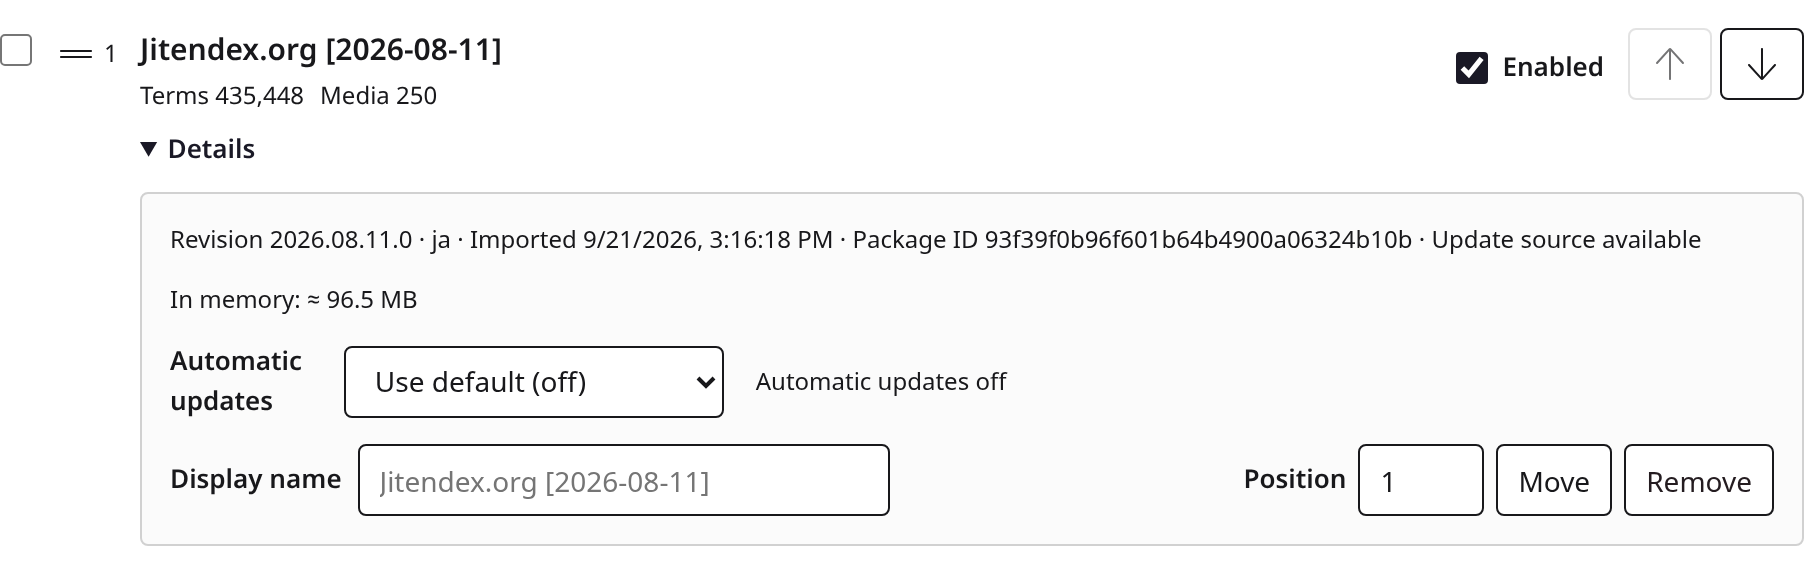
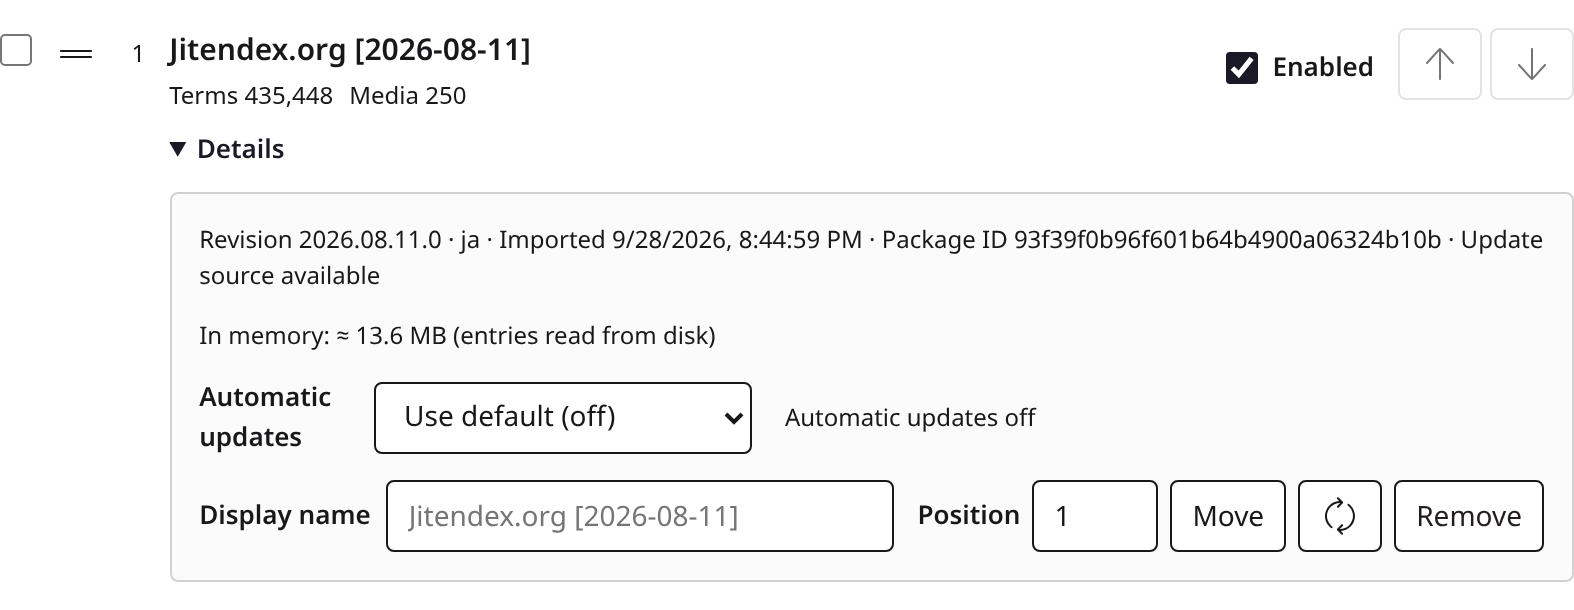
Document the memory model and measure Low memory mode on a library
docs/memory.md describes one copy per package, media read from disk, paged
entries in Low memory mode with their measured cost, and the out-of-memory
retry. benchmark/low-memory-mode.mjs imports several archives at once and
times a word list over several passes, recording the page cache and the heap
after them. The memory screenshots show Low memory mode on.

Fixes #343

diff --git a/docs/memory.md b/docs/memory.md
@@ -1,42 +1,50 @@
 # Memory
 
-Hachidori keeps every installed dictionary in memory while the engine runs. A
-library of large, media-heavy dictionaries can therefore take a few gigabytes of
-RAM where a dictionary extension that reads from IndexedDB on demand takes a few
-hundred megabytes. This page explains where the bytes go, what Settings shows
-about them, what **Low memory mode** does and costs, and what happens when the
-dictionaries do not fit.
+Hachidori keeps the installed dictionaries' text in memory while the engine
+runs, and reads their images from disk when they are shown. A library of large
+dictionaries can therefore take a gigabyte or more of RAM, where a dictionary
+extension that reads from IndexedDB on demand takes a few hundred megabytes.
+**Low memory mode** keeps only each dictionary's index in memory and reads the
+entries from disk as they are looked up. This page explains where the bytes
+go, what Settings shows about them, what Low memory mode does and costs, and
+what happens when the dictionaries do not fit.
 
 ## Why the engine is large
 
 The dictionary engine ([hoshidicts](https://github.com/bee-san/hoshidicts),
 compiled to WebAssembly) opens each installed dictionary's generated files with
-`mmap`: `hash.table`, `bloom.filter`, `blobs.bin`, and, when present,
-`media.bin`, `media.idx` and `scan.idx`. Natively that costs nothing until a page
-is touched. WebAssembly has no demand paging, so Emscripten emulates `mmap` by
-allocating the whole file inside the module's linear memory and copying the
-bytes in. Four things follow:
+`mmap`: its index (`hash.table`, `bloom.filter` and, when present, `media.idx`,
+`scan.idx` and the trained `dict.zstd`) and its entries (`blobs.bin`). Natively
+that costs nothing until a page is touched. WebAssembly has no demand paging, so
+Emscripten emulates `mmap` by allocating the whole file inside the module's
+linear memory and copying the bytes in. Five things follow:
 
-- **Every byte of every installed dictionary is resident**, media included,
-  whether or not you ever look a word up in it. A dictionary's share is the size
-  of its generated files, and the engine maps those files once for each kind it
-  loads the package as (term, frequency, pitch, kanji), so a package that
-  carries several banks holds several copies.
+- **Every entry of every installed dictionary is resident**, whether or not you
+  ever look a word up in it. A dictionary's share is the size of its index and
+  entry files, once however many kinds it loads as (term, frequency, pitch,
+  kanji): the kinds share one copy.
+- **Images and other media are not.** `media.bin` is never copied in; the
+  engine reads a file from OPFS (or IDBFS) when a popup or an Anki export asks
+  for it, and the popup caches what it shows.
 - **Linear memory never shrinks.** Importing a dictionary unzips it, builds its
   indexes and, on the threaded engine, runs an eight-thread worker group. On
   direct OPFS that work happens in a separate import worker that is terminated
   afterwards, so its peak is returned to the browser and the engine's heap grows
-  only by the new dictionary's mapped files; on IDBFS (Electron) the
+  only by the new dictionary's resident files; on IDBFS (Electron) the
   import runs inside the engine and the memory that peak needs is kept for the
   life of the engine worker. Disabling or removing a dictionary frees its
-  mapping inside the heap, but the heap itself stays at its high-water mark.
+  files inside the heap, but the heap itself stays at its high-water mark.
 - **IDBFS hosts hold a second copy.** Electron (GameSentenceMiner) and
   Chrome without OPFS sync access handles keep the dictionary files in
-  IndexedDB and mirror them into the WebAssembly filesystem, so the same bytes
-  exist twice in JavaScript memory.
+  IndexedDB and mirror them into the WebAssembly filesystem, so every file,
+  media included, also exists in JavaScript memory.
 - **The heap is capped at 4 GiB** (`-sMAXIMUM_MEMORY=4GB` in
-  `wasm/CMakeLists.txt`). A library whose mapped files exceed that cannot load
-  completely.
+  `wasm/CMakeLists.txt`). A library whose resident files exceed that cannot
+  load completely; see [When dictionaries do not fit](#when-dictionaries-do-not-fit).
+
+With the five recommended dictionaries (75 MB of archives) the engine heap is
+about 320 MB after the import, and about 100 MB in Low memory mode (Chrome 152,
+direct OPFS; `benchmark/low-memory-mode.mjs`).
 
 ## Reading the numbers
 
@@ -47,59 +55,91 @@ packages.
 ![Settings → Advanced → Memory with the engine total and the Low memory mode switch](assets/memory-settings.png)
 
 Each row in Library shows *In memory: ≈ Y MB* under **Details**: that
-package's mapped bytes as described above.
+package's resident files as described above. A package whose entries are read
+from disk (every package in Low memory mode, or one that did not fit) counts
+only its index and says *(entries read from disk)*.
 
 ![A Library row's Details with its In memory line](assets/memory-library-details.png)
- Both come from the engine's
-`hd_memory` read (see [architecture.md](architecture.md), "Runtime messages"),
-asked for when you open Advanced (and again there when the engine publishes a
-new generation after an import, reload or recycle) and when you open a row's
-Details; nothing polls. While the engine is busy or unreachable the readout shows an em
-dash rather than an error.
+
+Both come from the engine's `hd_memory` read (see
+[architecture.md](architecture.md), "Runtime messages"), asked for when you open
+Advanced (and again there when the engine publishes a new generation after an
+import, reload or recycle) and when you open a row's Details; nothing polls.
+While the engine is busy or unreachable the readout shows an em dash rather than
+an error.
 
 The total is usually larger than the sum of the rows: the difference is the
-import high-water mark and the engine's own allocations. Media-heavy
-dictionaries (images, audio) are the expensive ones; a text-only dictionary
-with tens of thousands of entries is a few tens of megabytes.
+import high-water mark, the engine's own allocations and, in Low memory mode,
+the cache of recently read entry pages (`hd_memory.pageCacheBytes`, at most
+32 MiB once a lookup returns). A text-only dictionary with tens of thousands of
+entries is a few tens of megabytes; the largest name dictionaries are several
+hundred.
 
 ## Low memory mode
 
-Settings → Advanced → Memory → **Low memory mode** (off by default) does two
+Settings → Advanced → Memory → **Low memory mode** (off by default) does three
 things:
 
-1. **Recycles the engine worker after changes.** Once an import, reimport,
+1. **Reads dictionary entries from disk.** The worker keeps each dictionary's
+   index in the heap and reads `blobs.bin` from OPFS (or IDBFS) through a page
+   cache: 4 KiB pages, 32 MiB for all dictionaries together, least recently
+   used first out. Every probe still reads the index in memory, so a lookup
+   that finds nothing reads nothing from disk, and one that does reads only the
+   pages holding the entries it finds. Results are identical with the mode on
+   and off. A lookup keeps the pages it read until it returns, so the cache can
+   exceed its budget while one runs.
+2. **Recycles the engine worker after changes.** Once an import, reimport,
    update, removal, enable/disable, custom-dictionary save or backup
    restore has settled and the engine has been idle for two seconds, the
    offscreen document terminates the engine worker and starts a new one, which
    reloads the installed dictionaries from OPFS (or IDBFS). The new worker's
-   heap holds only the mapped files: on IDBFS that gives the import high-water
+   heap holds only the index files: on IDBFS that gives the import high-water
    mark back to the browser, and on OPFS (where the import worker already
    returned it) whatever the swaps of replaced generations left in the heap.
    A pure reorder uses the already loaded native set and
    allocates no import high-water mark, so it does not request a recycle. It
    still restarts the idle window of a pending import or mode-change recycle.
-2. **Imports on one thread with a minimal thread pool.** The recycled worker
+3. **Imports on one thread with a minimal thread pool.** The recycled worker
    starts with a two-thread pool (one importer thread plus the WasmFS OPFS
    proxy) instead of up to nine, and `hdw_import` runs in its low-RAM mode.
 
-Lookup speed is unchanged. The costs are that imports take longer (Jitendex in
-about 3.9 s single-threaded instead of 1.6 s in the eight-thread group), and
-that dictionaries reload briefly after a change: hover lookups during that
-reload wait for the engine, and Settings shows *Starting the engine and loading
-dictionaries…* for the reload's duration (about 1 ms per MB of dictionary
-files). Turning the mode on or off also recycles the worker once, so the pool
-size and the import threading always match the option.
+Measured with the five recommended dictionaries on Chrome 152 (direct OPFS,
+`benchmark/low-memory-mode.mjs`, 1,000 hovers over example sentences looked up
+two to five times over, round trips from the settings page, ten fresh profiles
+each way): the heap goes from about 320 MB to about 70 MB right after loading
+(41 MB of index files) and about 100 MB once the cache has filled, and the
+median hover round trip from 3.5 ms to 3.9 ms (p95 10.7 ms to 11.7 ms). The first
+pass over the hovers, with the cache still empty, costs the same. On a shared
+machine single samples vary by several tenths of a millisecond either way. The
+engine itself does about 7% more work per lookup when it reads entries through
+the cache (Node, same hovers).
+
+The other costs are that imports take longer (Jitendex in about 3.9 s
+single-threaded instead of 1.6 s in the eight-thread group), and that
+dictionaries reload briefly after a change: hover lookups during that reload
+wait for the engine, and Settings shows *Starting the engine and loading
+dictionaries…* for the reload's duration (about 1 ms per MB of index files).
+Turning the mode on or off also recycles the worker once, so the pool size,
+the import threading and how the entries are read always match the option.
+
+On OPFS the engine keeps each paged `blobs.bin`, and each `media.bin`, open
+through a sync access handle, which locks the file for as long as its package
+is loaded. A worker that opens a file another context still holds reads it
+through a slower `Blob` instead of failing.
 
 The mode needs the dedicated engine worker. It is not offered when the offscreen
 document has fallen back to the single-thread engine (`hd_status` reports
 `threaded: false`); the readout stays available there.
 
-Implementation: `extension/engine-recycler.js` is the pure scheduler,
+Implementation: hoshidicts `DictionaryStorage::Paged` (`src/blob_file.cpp`,
+`src/memory/page_cache.cpp`) reads the pages;
+`extension/engine-recycler.js` is the pure scheduler,
 `extension/offscreen.js` owns the idle predicate (no pending request, and no
 engine-side state a later request still needs, such as a prepared backup, an
 exported archive URL or an open dictionary download) and the restart,
 `extension/engine-worker-runtime.js` reads the worker's name to size the
-pthread pool before the module starts, and `background.js` answers
+pthread pool before the module starts and asks `engine-service.js` to load every
+package paged (`hd_status.pagedDictionaries`), and `background.js` answers
 `hd_engine_config` for the offscreen document and pushes the option when it
 changes.
 
@@ -107,31 +147,34 @@ changes.
 
 There are two failure regimes.
 
-**More than 4 GiB of mapped files.** `memory.grow` is refused, the engine's
-`mmap` fails with `ENOMEM`, and the package that did not fit is reported in
-`hd_status.failedDictionaries` with *not enough memory to load … dictionary*.
-Nothing crashes: the other dictionaries keep working, Settings names the
-package that failed, and the fix is to disable or remove the largest
-dictionaries (media-heavy ones first) until the rest fits. Before this message
-existed the same failure read like a damaged file.
+**More than 4 GiB of resident files.** `memory.grow` is refused and the
+engine's `mmap` fails with `ENOMEM` (*not enough memory to load … dictionary*).
+The engine then loads that package again with its entries read from disk, as
+Low memory mode would, so only its index has to fit; its Library row says
+*(entries read from disk)* and its lookups cost what they cost in Low memory
+mode. A package whose index does not fit either is reported in
+`hd_status.failedDictionaries`. Nothing crashes: the other dictionaries keep
+working, Settings names the package that failed, and the fix is to turn on Low
+memory mode or to disable or remove the largest dictionaries until the rest
+fits. With Low memory mode on only the indexes count towards the limit, so on
+OPFS a library can hold several times 4 GiB of dictionary files.
 
 **Less than 4 GiB, but more than the operating system can keep resident.**
 Nothing in the engine can see this. The browser swaps, which shows up as
 hovers taking seconds, or the operating system kills the extension process;
 the service worker then recreates the offscreen document, which reloads every
 dictionary and hits the same wall. If Hachidori's memory is close to what your
-machine has free, remove or disable the largest dictionaries, and turn on Low
-memory mode so that imports do not add their high-water mark on top.
+machine has free, turn on Low memory mode, or remove or disable the largest
+dictionaries.
 
 ## Deferred
 
-Making the footprint scale with use rather than with what is installed needs
-changes in hoshidicts: reading `media.bin` on demand through the kept file
-descriptor under Emscripten (free on the lookup path, since media is fetched by
-path), and optionally `blobs.bin` on demand behind the same switch at a lookup
-speed cost. A later round may also retry a load that failed for memory with
-on-demand reads before reporting it. Further out, the WebAssembly
-[memory-control proposal](https://github.com/WebAssembly/memory-control)
+On IDBFS hosts the MEMFS mirror still holds every file in JavaScript memory;
+reading IndexedDB records on demand would need an IDBFS backend of its own.
+Which pages stay resident is decided by the cache alone; keeping common words or
+the first-ranked dictionaries warm is investigated in
+[#344](https://github.com/bee-san/hachidori/issues/344). Further out, the
+WebAssembly [memory-control proposal](https://github.com/WebAssembly/memory-control)
 (`memory.discard` in phase 1, mappable memory later) would let an engine give
 pages back or map files without copying them, at which point the emulation
 described above stops being the constraint.

diff --git a/docs/architecture.md b/docs/architecture.md
@@ -2495,7 +2495,7 @@ uncertain write leaves it for inspection and an explicit retry.
 | Capture tab/document routing identities | service worker; recovered by validating the surviving offscreen host and reader | transient memory only |
 | Watched DOM nodes/ranges, cue/DOM observers, and collector epochs | linked content script | transient memory only |
 
-The engine holds every loaded dictionary's generated files in WebAssembly linear memory (Emscripten emulates `mmap` by copying), and that memory never shrinks. On direct OPFS an import's high-water mark belongs to the terminated `import-worker.js` instance and is returned to the browser; the engine's heap grows only by the new generation's mapped files. On IDBFS the import runs inside the engine, so its high-water mark stays for the life of the engine worker. `hd_memory` reports the heap and each loaded package's mapped bytes; Settings → Advanced → Memory shows them, and its **Low memory mode** switch (`options.lowMemoryMode`) makes `offscreen.js` recycle the engine worker once idle after a dictionary change and start it with a two-thread pool that imports single-threaded (`engine-recycler.js`, `engine-worker-runtime.js`, `hd_engine_config`). [memory.md](memory.md) explains the model, the readout, the mode's costs and the two failure regimes.
+The engine holds each loaded dictionary's index and entry files (`blobs.bin`) in WebAssembly linear memory once, however many kinds it loads as (Emscripten emulates `mmap` by copying), and that memory never shrinks; media (`media.bin`) is read from the file when `hd_media` asks for it. On direct OPFS an import's high-water mark belongs to the terminated `import-worker.js` instance and is returned to the browser; the engine's heap grows only by the new generation's resident files. On IDBFS the import runs inside the engine, so its high-water mark stays for the life of the engine worker. `hd_memory` reports the heap and each loaded package's resident bytes; Settings → Advanced → Memory shows them, and its **Low memory mode** switch (`options.lowMemoryMode`) makes `offscreen.js` recycle the engine worker once idle after a dictionary change and start it with a two-thread pool that imports single-threaded and loads every package paged: only its index stays in the heap and `blobs.bin` is read through a bounded page cache (`engine-recycler.js`, `engine-worker-runtime.js`, `hd_engine_config`, `hdw_add_dict`'s `paged` argument). Any worker loads a package paged when it does not fit in the heap mapped. [memory.md](memory.md) explains the model, the readout, the mode's costs and the two failure regimes.
 
 The offscreen document deliberately has no direct `chrome.storage` access. It asks the service worker to read or compare-and-set dictionary metadata. Those writes are serialized so a settings-page edit cannot be silently overwritten by a stale engine write. Dictionary-state commits prune removed package IDs from global groups and invalid selectors in the same storage transaction, and every Settings option write is revalidated there so a stale page cannot restore them.
 
@@ -2564,8 +2564,8 @@ and in-flight dictionary commits when leaving Settings.
 | `hd_lookup` | Run a bounded scan/deinflection lookup |
 | `hd_anki_maturity` | Read whether the first term's expression has a mature card in the selected duplicate-index scope; independent of engine and mutation queues |
 | `hd_open_external` | Validate and open a user-activated HTTP(S) dictionary link in a browser tab, outside storage and engine queues |
-| `hd_status` | Report readiness, loading state, dictionary count, generation, storage backend, and threading mode; while the offscreen bridge runs an import, `updating: { id, phase, fallback }` names the replaced package and phase |
-| `hd_memory` | Report the engine heap size and each loaded package's resident bytes (its mapped files, once per native kind); see [memory.md](memory.md) |
+| `hd_status` | Report readiness, loading state, dictionary count, generation, storage backend, threading mode, and whether the worker is the low-memory one (`lowMemory`) that reads every package's entries from disk (`pagedDictionaries`); while the offscreen bridge runs an import, `updating: { id, phase, fallback }` names the replaced package and phase |
+| `hd_memory` | Report the engine heap size, the paged entries' cache (`pageCacheBytes`), and each loaded package's resident bytes (its index files and, unless it is `paged`, its entries, once however many native kinds it loads as); see [memory.md](memory.md) |
 | `hd_engine_config` | Read `options.lowMemoryMode` for the offscreen document (its sender only) before it creates the engine worker; the service worker pushes the same message to the document when the stored option changes |
 | `hd_reload` | Reload enabled dictionaries from persisted metadata |
 | `hd_remove` | Stage a package's files, commit its removal, then delete the staged copy |

diff --git a/test/README.md b/test/README.md
@@ -181,14 +181,27 @@ direction), the Settings → Advanced → Memory readout and each Library row's
 is busy or unreachable, a refresh on a new engine generation while Advanced is
 shown and when a row's Details opens, the switch saving
 through the ordinary options queue, and the switch hidden with
-the single-thread engine), and the `lowMemoryMode` option's normalisation. The
+the single-thread engine, and a paged row's *(entries read from disk)*), and the
+`lowMemoryMode` option's normalisation. The
 memory settings suite uses the same external jsdom dependency. `node-smoke.mjs`
 records the heap after import and after `hdw_reset` and imports inside a
-two-thread pool; `extension-smoke.mjs` checks the `hd_memory` reply against the
-engine's file sizes and the offscreen-only `hd_engine_config` read and push;
+two-thread pool. It also loads copies of the fixture into fresh modules with one
+file padded to 16 MiB: four kinds of one package grow the heap by one copy of
+its files, a padded `media.bin` and a paged package's padded `blobs.bin` grow it
+by nothing, and paged `hdw_lookup`/`hdw_kanji`/`hdw_media` answers are
+byte-identical to mapped ones. `extension-smoke.mjs` checks the `hd_memory` reply
+against the engine's file sizes (one copy, no `media.bin`) and the
+offscreen-only `hd_engine_config` read and push; its paged-dictionaries stage
+runs a worker configured as the low-memory one (every add paged, identical
+lookups, smaller rows, a filled page cache) and, with `hdw_add_dict` refusing a
+package the way a full heap does, checks that the package loads paged, and that
+one refused paged too is reported in `failedDictionaries` while the others load.
 `chrome-e2e.mjs` turns the mode on in a real Chrome, watches the worker recycle
 (the generation restarts from zero), imports in the strict two-thread pool,
-and checks that the heap dropped, lookups still hit and the readout renders.
+and checks that the heap dropped, lookups still hit, the package's row counts
+only its index files as sized in OPFS, the page cache filled within its budget
+and the readout renders; turning the mode off again counts `blobs.bin` again.
+The hoshidicts `dictionary-storage` test covers the engine side natively.
 
 `node --test test/sharing-protocol.test.mjs test/sharing-client.test.mjs
 test/sharing-host.test.mjs

diff --git a/benchmark/README.md b/benchmark/README.md
@@ -283,17 +283,20 @@ also run on macOS. This does not add non-Linux process metrics to the runner.
 ## Low memory mode
 
 `low-memory-mode.mjs` alternates fresh-profile samples with
-[Low memory mode](../docs/memory.md) off and on: one archive imported through
-Settings' real file input, the import wall time (file selection to ready
+[Low memory mode](../docs/memory.md) off and on: the archives imported together
+through Settings' real file input, the import wall time (file selection to ready
 status), the engine heap (`hd_memory.heapBytes`) and the summed Chrome
 process-tree RSS right after the import settles and, with the mode on, again
-after the worker has been recycled, then the median and p95 of repeated
-`hd_lookup` round trips. Peak import RSS is not sampled; the standard runner
-above does that.
+after the worker has been recycled, then `hd_lookup` round trips. Without
+`--words` one text is looked up repeatedly (median and p95); with `--words` a
+file of lookup texts, one per line, is looked up `--passes` times (default 2),
+recording each pass's distribution, the page cache and the heap after the last.
+Peak import RSS is not sampled; the standard runner above does that.
 
 ```sh
-node benchmark/low-memory-mode.mjs --archive /path/to/jitendex.zip --samples 3 \
-  --output benchmark/results/low-memory-mode.json
+node benchmark/low-memory-mode.mjs --archive /path/to/jitendex.zip \
+  [--archive /path/to/jmnedict.zip ...] [--words hovers.txt --passes 5] \
+  --samples 3 --output benchmark/results/low-memory-mode.json
 ```
 
 ## Dictionary update availability
